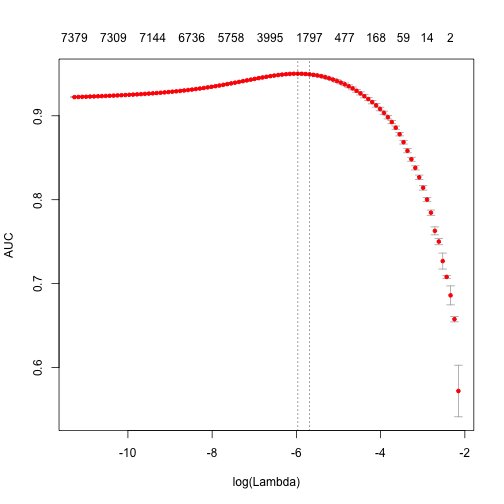
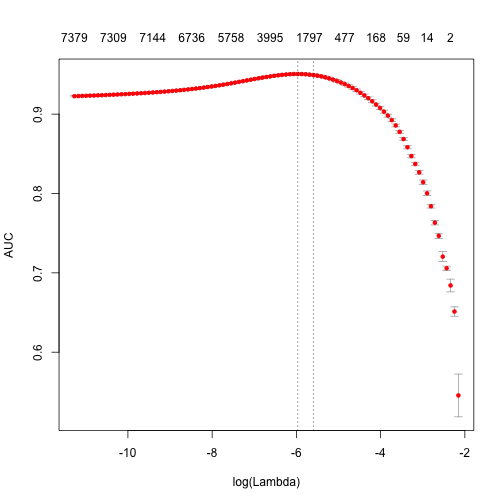
update category

diff --git a/_posts/2015-11-09-text2vec.md b/_posts/2015-11-09-text2vec.md
@@ -6,11 +6,6 @@ title: 'Analyzing texts with text2vec package.'
 author: "Dmitriy Selivanov"
 date: "09.11.2015"
 ---
-# IMPORTANT NOTE
-**Code from this post is outdated (package APIs were changed).**  
-
-**See [this post](http://dsnotes.com/blog/2015/11/09/text2vec/).**  
-
 In the last weeks I have actively worked on [text2vec](https://github.com/dselivanov/text2vec) (formerly tmlite) - R package, which provides tools for fast text vectorization and state-of-the art word embeddings. 
 
 This project is an experiment for me - what can a single person do in a particular area? After these hard weeks, I believe, he can do a lot.
@@ -118,7 +113,7 @@ print( difftime( Sys.time(), t1, units = 'sec'))
 
 
 {% highlight text %}
-## Time difference of 3.611464 secs
+## Time difference of 3.987079 secs
 {% endhighlight %}
 
 
@@ -170,7 +165,7 @@ print( difftime( Sys.time(), t1, units = 'sec'))
 
 
 {% highlight text %}
-## Time difference of 35.2681 secs
+## Time difference of 44.57128 secs
 {% endhighlight %}
 
 
@@ -188,7 +183,7 @@ print (paste("max AUC = ", round(max(fit$cvm), 4)))
 
 
 {% highlight text %}
-## [1] "max AUC =  0.9465"
+## [1] "max AUC =  0.9442"
 {% endhighlight %}
 
 Note, that training time is quite high. We can reduce it and also significantly improve accuracy.
@@ -259,7 +254,7 @@ print( difftime( Sys.time(), t1, units = 'sec'))
 
 
 {% highlight text %}
-## Time difference of 18.84337 secs
+## Time difference of 20.13441 secs
 {% endhighlight %}
 
 
@@ -277,7 +272,7 @@ print (paste("max AUC = ", round(max(fit$cvm), 4)))
 
 
 {% highlight text %}
-## [1] "max AUC =  0.9501"
+## [1] "max AUC =  0.9506"
 {% endhighlight %}
 
 As you can seem we obtain faster training, and larger AUC.
@@ -301,7 +296,7 @@ print( difftime( Sys.time(), t1, units = 'sec'))
 
 
 {% highlight text %}
-## Time difference of 23.82878 secs
+## Time difference of 23.92558 secs
 {% endhighlight %}
 
 
@@ -321,7 +316,7 @@ print( difftime( Sys.time(), t1, units = 'sec'))
 
 
 {% highlight text %}
-## Time difference of 35.42155 secs
+## Time difference of 36.05649 secs
 {% endhighlight %}
 
 
@@ -373,7 +368,7 @@ print( difftime( Sys.time(), t1, units = 'sec'))
 
 
 {% highlight text %}
-## Time difference of 28.11165 secs
+## Time difference of 26.24242 secs
 {% endhighlight %}
 
 
@@ -391,7 +386,7 @@ print (paste("max AUC = ", round(max(fit$cvm), 4)))
 
 
 {% highlight text %}
-## [1] "max AUC =  0.9582"
+## [1] "max AUC =  0.9573"
 {% endhighlight %}
 
 So improved our model a little bit more. Now, I'm leaving further tuning for the reader.
@@ -418,7 +413,7 @@ print( difftime( Sys.time(), t1, units = 'sec'))
 
 
 {% highlight text %}
-## Time difference of 13.07829 secs
+## Time difference of 13.09422 secs
 {% endhighlight %}
 
 
@@ -470,7 +465,7 @@ print( difftime( Sys.time(), t1, units = 'sec'))
 
 
 {% highlight text %}
-## Time difference of 58.25234 secs
+## Time difference of 60.67092 secs
 {% endhighlight %}
 
 
@@ -488,7 +483,7 @@ print (paste("max AUC = ", round(max(fit$cvm), 4)))
 
 
 {% highlight text %}
-## [1] "max AUC =  0.9481"
+## [1] "max AUC =  0.9482"
 {% endhighlight %}
 
 As you can see, we got a little bit worse AUC, but DTM construction time was considerably lower. On large collections of documents this can become a serious argument.
